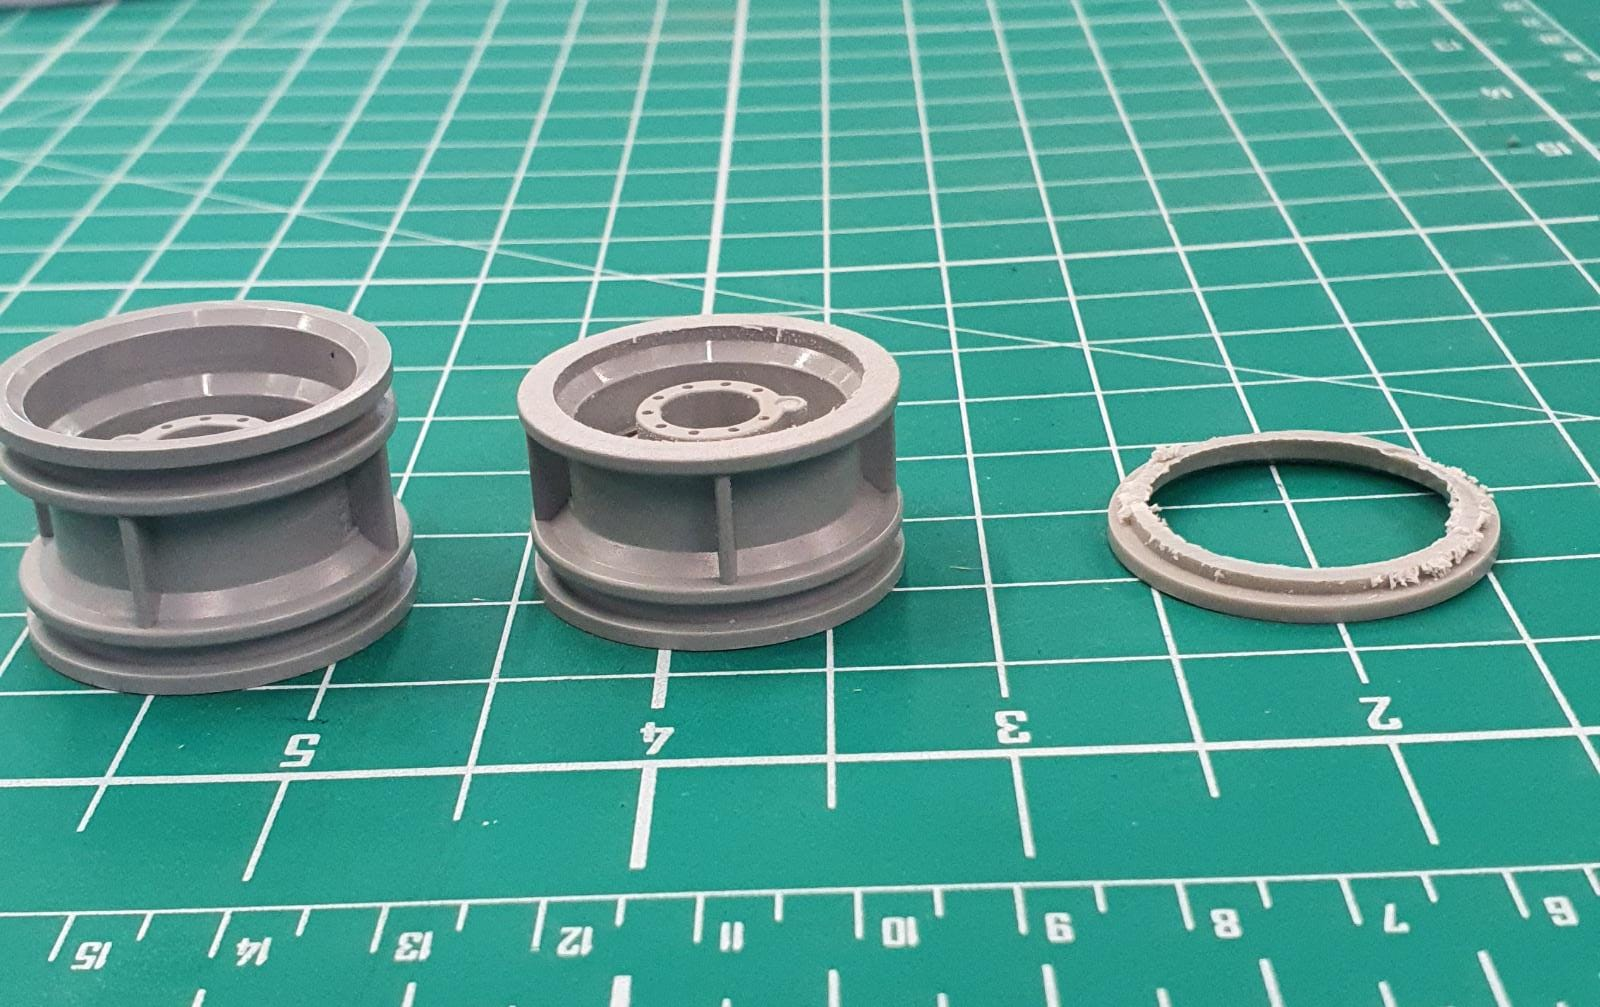
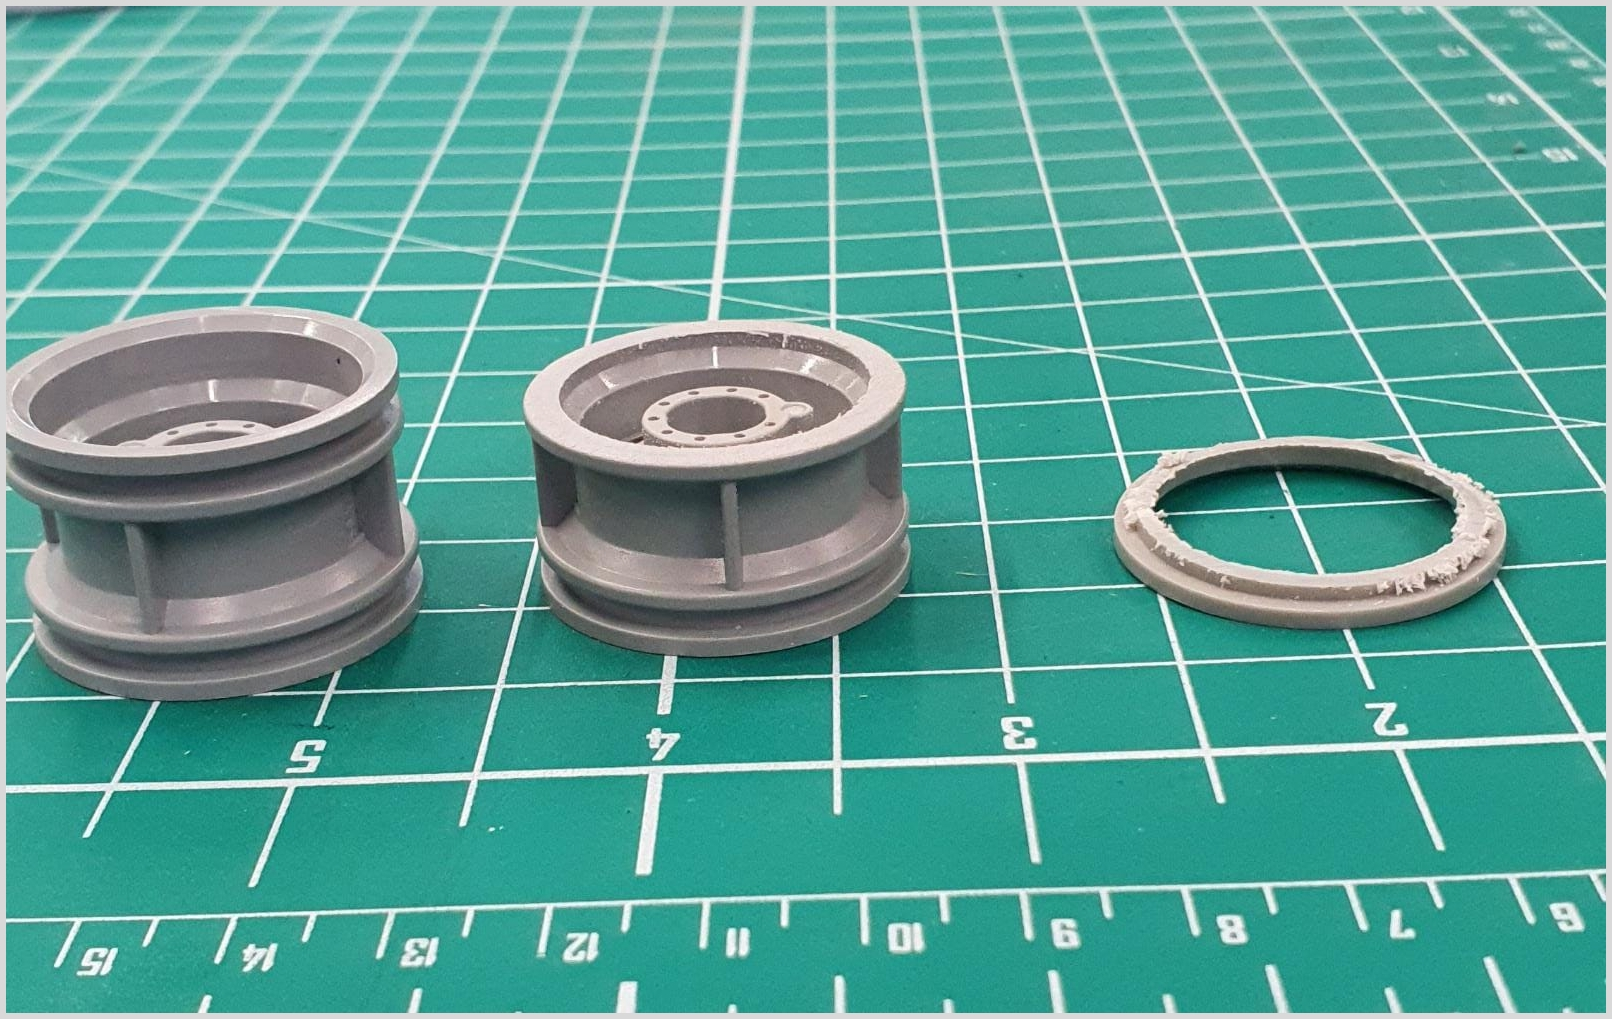
project update

Changed region(s): [[0.0, 0.0, 1.0, 1.0], [0.7812, 0.4618, 0.8125, 0.5233]]

diff --git a/docs/09-project_hardware.md b/docs/09-project_hardware.md
@@ -12,18 +12,18 @@ parent: Project
 
 My first step was to design the tracks for WALL-E. Since WALL-E has a triangular shaped tracks, I attempted to position the 3 lego wheels together and fit the rubber treads for each side. From there, I estimated a fixed position where the 3 wheels would be and laser cut acrylic to hold the wheels on each side. The acrylic acts as a supporting frame for the positioned wheel rims. This step took a few tries to get my rubber track drive treads fit well together without it being too tight or too loose. 
 
-<img src="https://github.com/aloethere/EP1001/blob/gh-pages/images/project/treads.jpg?raw=true" width = "400"><img src="https://github.com/aloethere/EP1001/blob/gh-pages/images/project/treads2.png?raw=true" width = "400"><sub><em>Animated WALL-E has a treads with changeable shapes</em></sub>
+<img src="https://github.com/aloethere/EP1001/blob/gh-pages/images/project/treads.jpg?raw=true" width = "250"><img src="https://github.com/aloethere/EP1001/blob/gh-pages/images/project/treads2.png?raw=true" width = "250"><sub><em>Animated WALL-E has a treads with changeable shapes</em></sub>
 
 
 While finalising my acrylic design, I also realised that it would be better if i trim the lego wheels to be narrower in width. This is so that the drive wheel tracks looks flushed. So i sawed them on each sides. I use a total of 6 wheel rims. I also attached some washers so there could be less friction when the wheels are rotating.
 
-<img src="https://github.com/aloethere/EP1001/blob/gh-pages/images/project/wheel%20trimmed.jpeg?raw=true" width = "400"><sub><em>Trimmed lego wheels (only 1 side)</em></sub>
+<img src="https://github.com/aloethere/EP1001/blob/gh-pages/images/project/wheel%20trimmed.jpeg?raw=true" width = "250"><sub><em>Trimmed lego wheels (only 1 side)</em></sub>
 
 
-Later I messed up some of the given wheels. So I 3d printed my own. The 3D printed wheels are flushed as well and feature a hexagon hole for *this thing* to act as my axle. I printed 2 pieces and both are placed for the top position of the triangle, which will then connect straight to my continuous servo.
+I later messed up some of the given wheels. So I 3d printed my own. The 3D printed wheels are flushed as well and feature a hexagon hole for *this thing* to act as my axle. I printed 2 pieces and both are placed for the top position of the triangle, which will then connect straight to my continuous servo.
 
-<img src="https://github.com/aloethere/EP1001/blob/gh-pages/images/project/Female-Hex-Hexagonal.jpg?raw=true" width = "400"><sub><em>*The thing*</em></sub>
-<img src="" width = "400"><sub><em>3D printed wheel</em></sub>
+<img src="https://github.com/aloethere/EP1001/blob/gh-pages/images/project/Female-Hex-Hexagonal.jpg?raw=true" width = "250"><sub><em>*The thing*</em></sub>
+<img src="" width = "250"><sub><em>3D printed wheel</em></sub>
 
 ## Body
 
